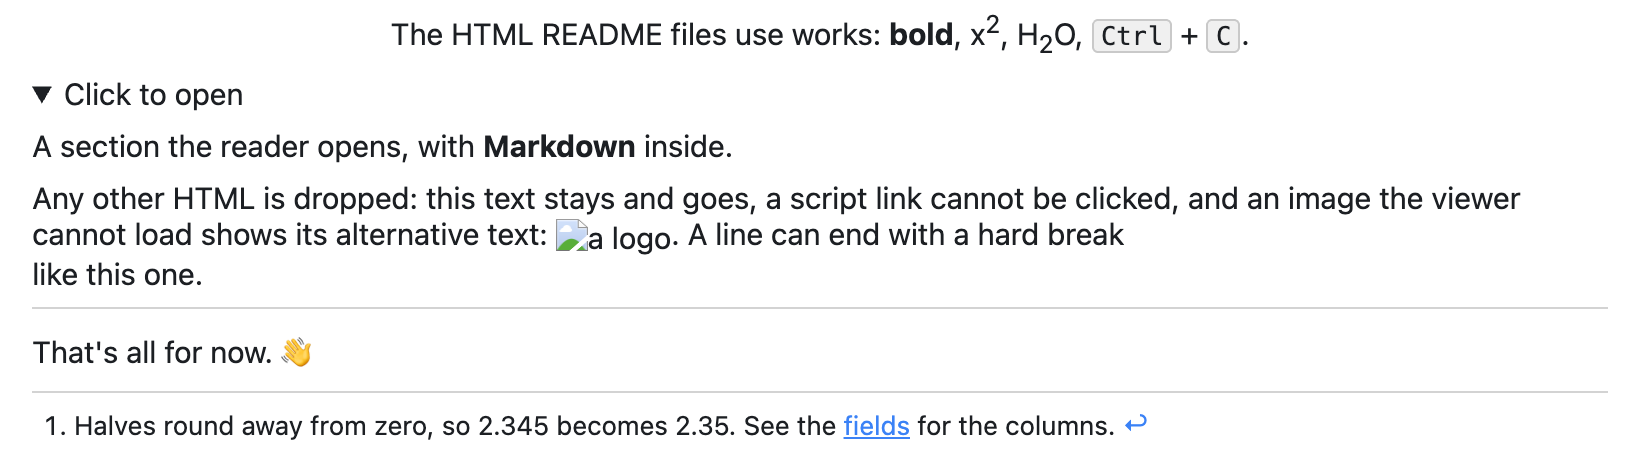
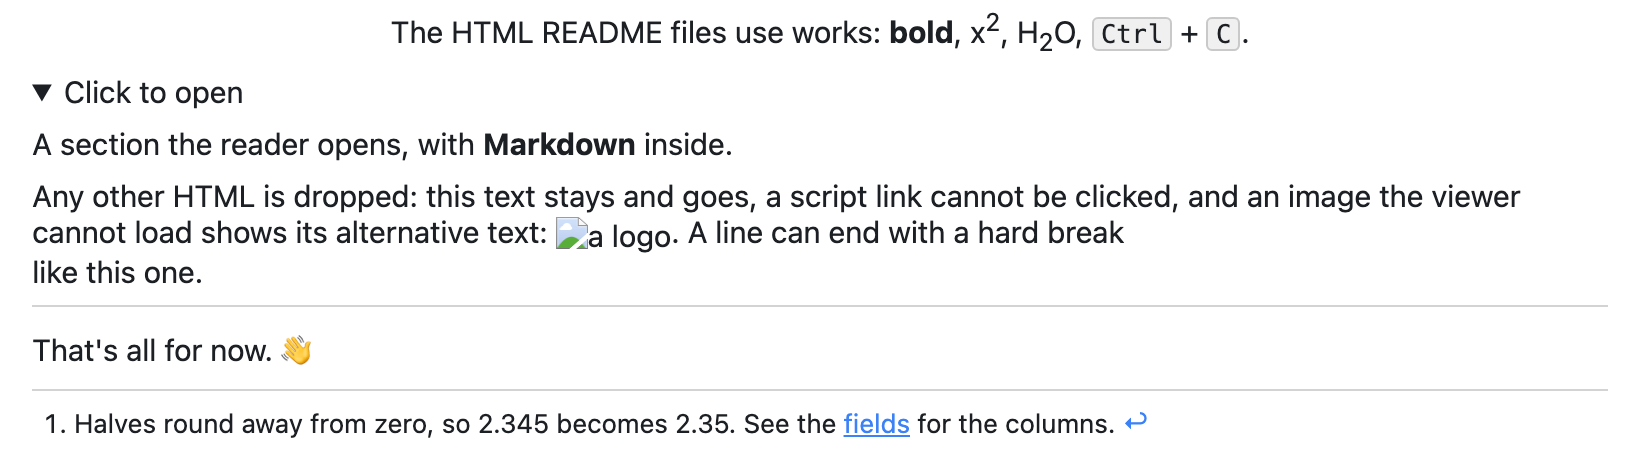
Show screenshots on the packages' nuget.org pages, and retake the README's
Each package README now shows what the package gives: all three show the
two viewers side by side, and the Avalonia and Blazor ones also show their
editor. nuget.org renders a packed README alone and only shows images from
trusted hosts, so the images are absolute raw.githubusercontent.com URLs to
docs/images on main.

The viewer screenshots in docs/images are retaken from the current code at
their former sizes. The two editor screenshots, retaken the same way, came
out identical to the ones #61 and #63 committed.

diff --git a/src/Polhem.Markdown.Blazor/README.md b/src/Polhem.Markdown.Blazor/README.md
@@ -4,6 +4,8 @@ A Markdown viewer component that renders semantic HTML styled with CSS variables
 component, for Blazor. The viewer renders the same model as `Polhem.Markdown.Avalonia`, so a Blazor and an Avalonia
 front end show the same text the same way.
 
+![The same reply in the Blazor viewer and the Avalonia viewer](https://raw.githubusercontent.com/polhem-dev/polhem-markdown/main/docs/images/viewer-hero.png)
+
 Link the stylesheet in the host page:
 
 ```html
@@ -49,6 +51,8 @@ and defaults are at the top of `polhem-markdown.css`:
 Edits Markdown as source in a native `<textarea>`, colored the way the viewer reads it, with a toolbar, line numbers,
 format commands and list keys. It works under interactive server, WebAssembly and auto rendering. Put a `MarkdownViewer` beside it for a live
 preview:
+
+![The editor with its toolbar and line numbers, beside the viewer showing the same text, in a browser](https://raw.githubusercontent.com/polhem-dev/polhem-markdown/main/docs/images/editor-blazor.png)
 
 ```razor
 <div style="display: grid; grid-template-columns: 1fr 1fr; height: 30rem">

diff --git a/src/Polhem.Markdown.Avalonia/README.md b/src/Polhem.Markdown.Avalonia/README.md
@@ -3,6 +3,8 @@
 A Markdown viewer control and a Markdown source editor control for Avalonia. The viewer renders the same model as
 `Polhem.Markdown.Blazor`, so an Avalonia and a Blazor front end show the same text the same way.
 
+![The same reply in the Blazor viewer and the Avalonia viewer](https://raw.githubusercontent.com/polhem-dev/polhem-markdown/main/docs/images/viewer-hero.png)
+
 ## MarkdownViewer
 
 Shows Markdown: GitHub Flavored Markdown, highlighted code, math, Mermaid diagrams and the HTML that README files use.
@@ -42,6 +44,8 @@ Set `CjkFontFamily` when the text has Chinese, Japanese or Korean, so bold CJK t
 
 Edits Markdown as source on AvaloniaEdit, colored the way the viewer reads it, with a toolbar, format commands and list
 keys. Put a `MarkdownViewer` beside it for a live preview:
+
+![The editor with its toolbar and line numbers, beside the viewer showing the same text](https://raw.githubusercontent.com/polhem-dev/polhem-markdown/main/docs/images/editor.png)
 
 ```xml
 <Grid ColumnDefinitions="*,*">

diff --git a/src/Polhem.Markdown/README.md b/src/Polhem.Markdown/README.md
@@ -6,4 +6,6 @@ and applies one safety policy for all of them. Applications use it through a vie
 - `Polhem.Markdown.Avalonia`: a viewer control and a source editor control for Avalonia.
 - `Polhem.Markdown.Blazor`: a viewer component and a source editor component for Blazor.
 
+![The same reply in the Blazor viewer and the Avalonia viewer](https://raw.githubusercontent.com/polhem-dev/polhem-markdown/main/docs/images/viewer-hero.png)
+
 The packages are at 0.x: a minor version may still change the API. See the [repository](https://github.com/polhem-dev/polhem-markdown).
